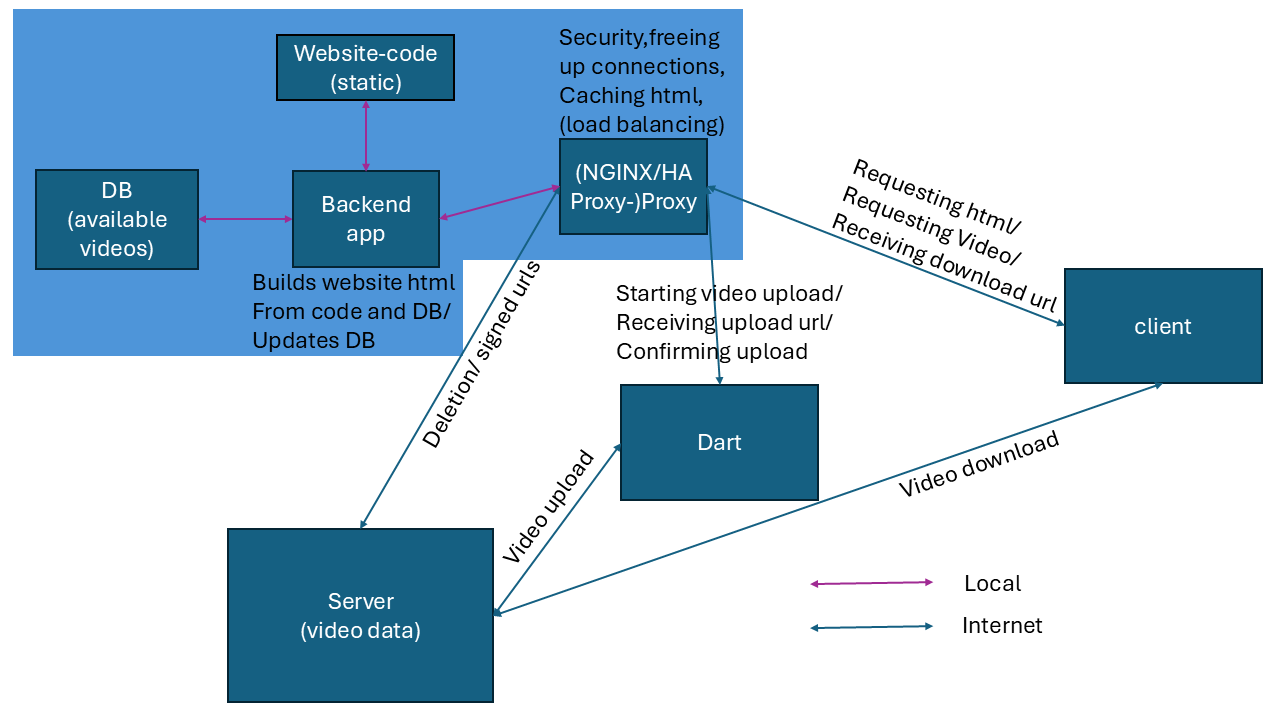
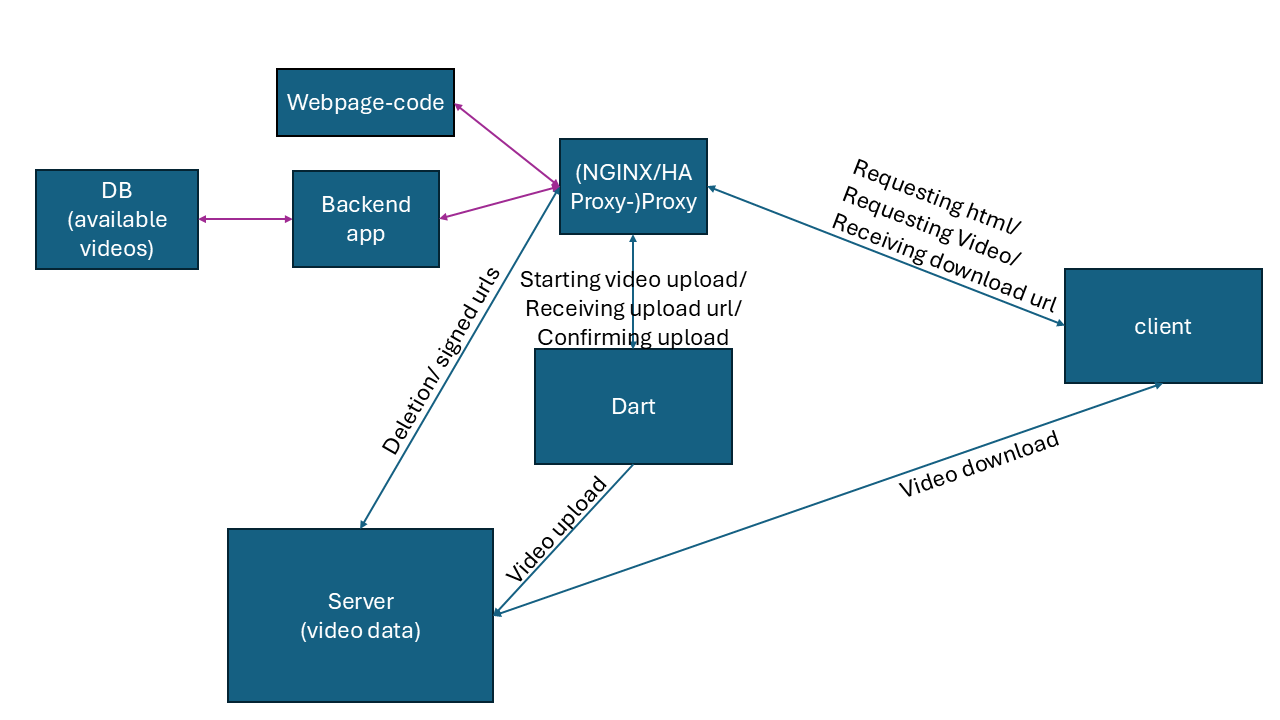
Introduction,, chapter 1/ 2 beginn. dart sequence diagramm

diff --git a/LaTeX/Chapters/introduction.tex b/LaTeX/Chapters/introduction.tex
@@ -3,62 +3,15 @@
 
 \nocite{*}
 
-Dieses Kapitel enthält die Einleitung mit ihren verschiedenen Abschnitten/Sections und Unterabschnitten.
+Das E-Dart Gerät \textit{LÖWEN DART HB10} stellt ein System dar, welches bereits umfangreiche Funktionen für den Spielbetrieb bietet \parencite{lwenentertainment_2026_lwen}. Hierzu zählen neben dem Angebot verschiedener Dart-Spiele die Erfassung von Spielerstatistiken, 
+die Bereitstellung von Daten über eine mobile Applikation sowie ein Verwaltungsportal für Aufsteller. Ein zentraler Aspekt des aktuellen Betriebs sind die vernetzte Turniere, bei denen alle Teilnehmer zeitgleich an demselben Gerät agieren 
+und die Spielergebnisse direkt nach Abschluss der Partie an einen Server übertragen werden.\newline
 
-\section{Beispiel Abschnitt: \LaTeX-Installation}
+In Zukunft soll dieses System um asynchrone Turnierformate und Ranglisten ergänzt werden, bei denen die Möglichkeit besteht, Preisgelder zu gewinnen. Im Gegensatz zu den bestehenden Formaten ist hierbei keine gleichzeitige Anwesenheit der Spieler erforderlich. 
+Da die Wettbewerbe ortsungebunden durchgeführt werden können, ist eine spätere visuelle Überprüfung der sportlichen Integrität erforderlich.\newline
 
-Zur Verwendung von \LaTeX-Installation einer Distribution z.~B.~TeXLive, MikTex etc.~sowie eines Editors z.~B.~TeXStudio, TeXnicCenter etc.~notwendig.
+Diese Arbeit beschafft sich mit der Realisierung einer Video-Streaming Platform für das LÖWEN-Dart HB10, die eine Überprüfung vergangener Spiele durch die Nutzer ermöglicht. Um dies zu erreichen, muss zunächst ein Konzept für das System des Streamings entwickelt werden.
+Daraufhin muss eine Kamera in den HB10 integriert werden, und der HB10 um die Funktion erweitert werden, die von der Kamera aufgenommenen Videos für das VOD Streaming an die Nutzer vorzubereiten. Anschließend daran ist es notwendig, einen Server \todo{vlt anpassen} zu entwickeln,
+welcher die Videos des HB10 empfängt, zwischen speichert und auf Anfrage des Nutzers an diesen überträgt. Zuletzt wird eine Webplatform erstellt, über welche die Nutzer, die gespeicherten Videos ansehen können.
 
-Installieren Sie zun\"achst die Distribution und anschließend den Editor. Beim ersten Start des Editors \"offnet sich ein 
-Konfigurationsassistent, der zun\"achst nach dem Pfad der installierten Distribution fragt. 
-
-Nach der Installation können k\"onnen Einstellungen z.~B.~f\"ur einen PostScript-Viewer gemacht werden. 
-Dieser Schritt kann ohne Weiteres \"ubersprungen werden. Entscheidend sind die Einstellungen f\"ur den pdf-Viewer. 
-
-Jetzt kann \LaTeX~verwendet werden. Um die Ausgabe eines Dokumentes zu erzeugen, muss das Dokument kompiliert werden (Ausgabe >
-Aktives Dokument > Erstellen und betrachten).
-
-\subsection{Beispiel Unterabschnitt: Aufbau eines \LaTeX-Dokuments}
-
-Ein \LaTeX-Dokument besteht in der Regel aus folgenden Komponenten:
-\begin{itemize}
-	\item Pr\"aambel
-	\item Titelseite
-	\item Textteil
-\end{itemize}
-
-\subsection{Beispiel Unterabschnitt auf zweiter Ebene: Pr\"aambel}
-In der Pr\"aambel werden global die Einstellungen f\"ur das gesamte Dokument definiert. Hierbei k\"onnen z.~B.~die Seitenr\"ander, 
-der Zeilenabstand oder auch die Sprache f\"ur die Silbentrennung festgelegt werden. In der ersten Zeile eines jeden Dokumentes wird dabei
-immer die zu verwendende Klasse festgelegt. Standardm\"aßig kann hier die Artikel-Klasse gew\"ahlt werden:
-
-\texttt{\textbackslash documentclass[12pt,titlepage]\{article\}}
-
-In den eckigen Klammern wird dabei u.a. die Standardschriftgr\"o\ss e f\"ur das gesamte Dokument festgelegt. 
-
-Au\ss erdem werden in der Pr\"aambel die f\"ur das Dokument ben\"otigten Pakete festgelegt. Gebr\"auchlich sind vor allem folgende Pakete:
-{\texttt{
-\begin{itemize}
-	\item \textbackslash usepackage[ngerman]\{babel\}
-	\item \textbackslash usepackage[latin1]\{inputenc\}
-	\item \textbackslash usepackage\{color\}
-	\item \textbackslash usepackage[a4paper]\{geometry\}
-	\item \textbackslash usepackage\{amssymb\}
-	\item \textbackslash usepackage\{amsthm\}
-	\item \textbackslash usepackage\{graphicx\}
-\end{itemize}
-}
-
-Im vorliegenden Fall werden die Pakete in der Konfigurationsdatei \texttt{config.tex} festgelegt, deren Inhalt durch 
-\texttt{\textbackslash input\{config\}} in das Hauptdokument \texttt{master.tex} inkludiert wird.
-
-\subsubsection{Beispiel Unterabschnitt auf zweiter Ebene: Titelseite}
-
-Nachdem die Dokumenten-Klasse und die zu verwendenden Pakete festgelegt worden sind,
-folgt die Titelseite. Da die Titelseite bereits Teil des eigentlichen Dokuments ist, muss ihr
-unbedingt der Befehl \texttt{\textbackslash begin\{document\}} vorausgehen. Am Ende des Dokuments sollte der Befehl
-\texttt{\textbackslash end\{document\}} gesetzt werden. Alles was nach diesem Befehl steht, wird vom Compiler nicht mehr beachtet.
-
-\section{Noch ein Beispiel-Abschnitt}
-
-Der Textteil beinhaltet nun den eigentlichen Text des Dokuments.
+\newpage

diff --git a/LaTeX/Chapters/chapter1.tex b/LaTeX/Chapters/chapter1.tex
@@ -1,28 +1,32 @@
 % !TEX root =  master.tex
 
-\chapter{Beispiel-Kapitel: Gebrauchsanleitung \LaTeX}
+\chapter{Technologien}
 
-\section{Proxy}
+\paragraph{FFMPEG}  \label{par:ffmpeg}
+FFMPEG bietet auf der einen Seite eine Abstraktionsebene über den Schnittstellen zu Video und Audio Geräten. Und auf der anderen Seite bietet es ein umfangreiches Sortiment an Funktionen, um Video- und Audiodaten zu bearbeiten.
+es wird im Laufe dieser Arbeit verwendet, um Kameras in den HB10 zu integrieren, und Anschließend entstehende Videodaten zu komprimieren und für das Streaming mittels HLS (s. \ref{par:hls}) zu bearbeiten.
 
-Ein Proxy-Server ist in dieser Systemarchitektur aus mehreren Gründen äußerst hilfreich, die sich direkt aus den dokumentierten Funktionen moderner Reverse-Proxies ableiten lassen. Entsprechend der NGINX-Dokumentation und der Caddy-Dokumentation zur 
-reverse\_proxy-Direktive übernimmt ein solcher Server die zentrale Lastverteilung (Load Balancing), indem er die Anfragen des Clients entgegennimmt und sie flexibel an die spezialisierten Backend-Dienste, wie die Backend-App, den Server für Videodaten oder das Dart-Modul, 
-weiterleitet. Durch das in NGINX etablierte Caching von statischen Inhalten wie HTML-Daten werden die internen Server entlastet und die Antwortzeiten für den Client verkürzt. Zudem verdeutlicht der HAProxy Starter Guide, 
-dass ein Proxy essenziell für das Verbindungsmanagement ist: Er fängt langsame Client-Verbindungen ab und gibt Ressourcen frei \enquote{freeing up connections}, wodurch die eigentlichen Anwendungsserver vor Überlastung geschützt werden, 
-während Datenströme wie der Video-Upload stabil verarbeitet werden können. Schließlich sorgt der Proxy für ein hohes Maß an Sicherheit, da er als Schutzschild fungiert, die interne Netzwerkinfrastruktur vor direktem Zugriff verbirgt 
-und ungeprüfte Anfragen bereits an der Peripherie filtert.(source: add NGINX, HAProxy, Caddy)
+\paragraph{H.264/H.265 Codecs} \label{par:codecs}
+H.264 und H.265 sind zwei Video-Codecs, welche eine Verlustbehaftete Codierung von Videos, mit intra- und interframe Komprimierung ermöglichen.
+Diese Codecs werden als Kandidaten für die Komprimierung der Videos einbezogen.
 
-\section{Codec Lizenz}
+\paragraph{POSIX} \label{par:posix}
+POSIX ist der Standard für das lesen und schreiben von Dateien unter Linux. POSIX wird verwendet, um die Kommunikation zweier Apps auf dem HB10 über eine Socket zu implementieren.
 
-Die Verfügbaren Codecs H.265 und H.264 werden momentan beide Lizenziert. Für uns ist dieser Fall interessant, da die Lizenzen sowohl Verteilung Codierten Inhalten via Streaming, als auch der Verkauf von Geräten mit der Fähigkeit für Codierung von den Formaten umfasst.
-Für H.264 gilt dabei, dass beim von Verkauf von unter 100.000 Geräten keine Lizenzgebühren anfallen. Für das Streamen von codierten Inhalten war es bis ende 2025 der Fall, dass keinerlei Lizenzgebühren anfallen solange der Inhalt frei für den Nutzer 
-zur Verfügung gestellt ist. Seit 2026 gibt es aber ein neues Stufen System welches in Abhängigkeit von Faktoren wie monatliche Nutzer man in verschieden Stufen eingeteilt wird. Die niedrigste Stufe startet jedoch bei Jährlichen Lizenzgebühren von 100.000\$,
-die einzige Möglichkeit das für diesen Anwendungsfall keine Lizenzgebühren anfallen, wäre wenn die Webseite zur Bereitstellung der Videos nicht als Platform in sinne des Patent pools, eingestuft werden würde.
-Bei H.265 hingegen gibt es theoretisch die Möglichkeit komplett kostenfrei zu bleiben. Hierzu muss jährlich unter 25000€ Lizenzgebühren anfallen, bei zwischen 0,4 bis 1,2 Euro pro Gerät. Für die Verteilung im Internet besteht ein ähnliches Modell bei einem der Patent-Pools,
-solange unter 50000€ jährlich an gebühren anfallen müssen diese nicht gezahlt werden. Ein zweiter Patent-Pool erhebt keine Lizenzgebühren für das Streaming von H.265 videos. Der letzte Pool gibt die Möglichkeit für Zahlung eines Prozentes der Einnahmen der Platform,
-einen Betrag von 12 bis 15 cent pro Nutzer, oder einen Festen verhandelten Betrag der zu zahlen ist. Da der Patent-Pool aber wahrscheinlich nicht akzeptiert dass keine Einnahmen entstehen werden, ist es unwahrscheinlich, dass diese Form akzeptiert wird und 
-auf die per Nutzer Basis oder den festen Betrag ausgewichen werden müsste. 
-Da es nicht so scheint als ob eine vollständig kostenfreie Verwendung eines Codecs plausibel ist, erscheint H.265 als passendere Variante, da es zumindest bei einer überschaubaren Menge an Nutzern als kostengünstigere seien sollte. Des Weiteren, erzielt H.265 im
-Vergleich zu H.264 bessere Kompression, und ist somit unter Betrachtung der benötigten Bandbreite besser.\parencite{accessadvance_2025_hevc,,avanci_2026_avanci,httpswwwstreamingmediacomauthors4247janozerhtm_2026_h264,httpswwwstreamingmediaglobalcomauthors4247janozerhtm_2026_avanci}
+%\paragraph{C++}
 
-\section{Content Distribution Network}
+\paragraph{REST} \label{par:rest}
+REST ist ein Regelwerk für http Zugriffe über das Internet. In dieser Arbeit wird es für die Übertragung der Videodaten zwischen sowohl Server und HB10, als auch zwischen Server und Nutzer verwendet.
 
+\paragraph{HLS} \label{par:hls}
+HLS ist ein HTTP-basiertes Video Streaming Protokoll bei dem der Client den Server nach einer playlist(.m3u8) Datei fragt welche alle Notwendigen Videodateien und deren Länge enthält, sodass der Client nicht das gesamte Video auf einmal herunterladen muss.
+HLS wird verwendet, um die Videos vom Server an den Nutzer zu Streamen.
+
+\paragraph{Spring Boot} \label{par:spring_boot}
+
+Spring Boot ist eine Erweiterung des Spring Frameworks, und ermöglicht es einfach einen Webserver oder REST APIs zu entwickeln. Spring Boot wird verwendet um die Schnittstellen des Servers zu erstellen.
+
+\paragraph{PostgreSql} \label{par:postgre}
+PostgreSql ist ein Datenbank Framework, und erlaubt es einfach Datenbanken aufzusetzen. Es wird für eine relationale Datenbank verwendet, welche die Metadaten zu den Videos verwaltet.
+
+\newpage

diff --git a/LaTeX/Chapters/chapter2.tex b/LaTeX/Chapters/chapter2.tex
@@ -1,7 +1,11 @@
 % !TEX root =  master.tex
-\chapter{Beispiel-Kapitel: Noch ein Kapitel}
+\chapter{DART}
 
-blabla
+Als Videoquelle dient der Löwen-DART HB10, dieser erstellt kurze Videoschnipsel für jeden Wurf, aus einem Spiel des Zukünftigen Turnier Modus. Nach Abschluss des Spiels werden alle Videoschnipsel zu einem Video zusammengeführt, und für das Streaming vorbereitet. 
 
-\section{Abschnitt mit Coding}
+\section{Aufbau und Ablauf}
 
+Die Videofunktion des HB10 erstreckt sich über zwei Anwendungen, welche miteinander kommunizieren. Die erste ist die eigentliche DART-Anwendung, diese ist dafür zuständig die zweite Anwendung über Ereignisse wie Treffer, Spiel Start und Ende zu Informieren,
+sowie das Abschließende übertragen an den Server. Die zweite Anwendung, ist verantwortlich für das zwischen Speichern, das Zusammenschneiden, das Komprimieren der Videodaten, sowie das anschließende erstellen der Playlist.
+
+\newpage

diff --git a/LaTeX/master.tex b/LaTeX/master.tex
@@ -97,6 +97,7 @@
 \usepackage{setspace}
 \usepackage{tocloft}
 \usepackage[T1]{fontenc}
+\usepackage{todo}
  
 % Definitionen und Commands
 \newcommand{\indextype}{numeric}